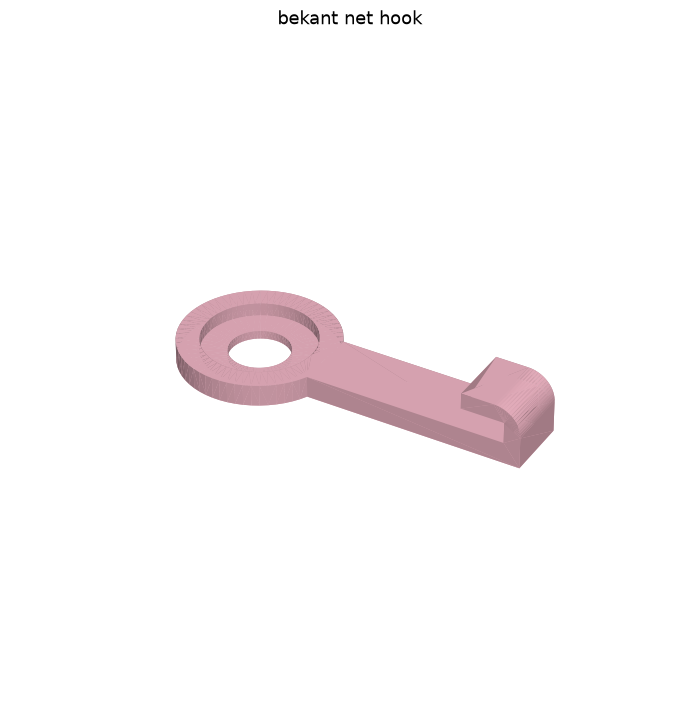
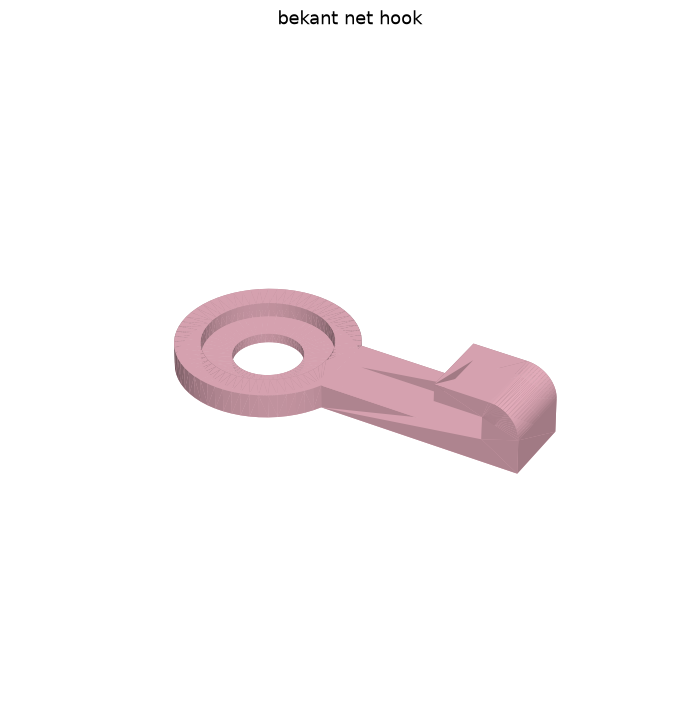
bekant-net-hook: 10 mm shorter, with a 6 mm wall at the hook's back
The loop rests 40 mm from the middle of the shaft. The hook's wall at the
arm's end is twice the wall over the loop.

diff --git a/parts/bekant-net-hook/part.py b/parts/bekant-net-hook/part.py
@@ -30,15 +30,18 @@ SLIDE = 0.2  # a side, round the shaft and round the ring: they slide in
 FLOOR = 1.55  # the hook under the holder's ring, the user's measurement of the room there
 THICK = 4  # the hook everywhere else
 RIM = 4  # the wall round the ring
-REACH = 50  # from the middle of the shaft to where the loop's cord rests
+REACH = 40  # from the middle of the shaft to where the loop's cord rests
 WIDTH = 12  # the arm and the hook, across
 SPACE = 4  # the room inside the hook, across, for the net's loop
-HOOK_WALL = 3  # the hook's wall, round that room
+HOOK_WALL = 3  # the hook's wall over that room
+BACK_WALL = 2 * HOOK_WALL  # the hook's wall behind that room, at the arm's end
 LIP = 6  # the hook's top, past the half circle toward the shaft, which keeps the loop under it
 
 POCKET = RING / 2 + SLIDE  # the radius of the pocket the ring sits in
-HOOK_X = REACH - SPACE / 2  # the middle of the hook's round back, along the arm
-END = REACH + HOOK_WALL  # the arm's end, which is the hook's back
+END = REACH + BACK_WALL  # the arm's end, which is the hook's back
+ROUND = SPACE / 2 + HOOK_WALL  # the radius the hook's back rounds over with, at the top
+ROUND_X = END - ROUND  # the middle of that round, along the arm
+LIP_X = REACH - SPACE / 2 - LIP  # where the lip starts, along the arm
 HOOK_Z = THICK + SPACE / 2  # and up: the room inside the hook starts on the arm's top
 VIEWS = (*plate.ANGLE, ("side.png", 0, -90, "From the side: the hook opens toward the shaft"))
 
@@ -48,16 +51,15 @@ def hook():
     arm = Box(END, WIDTH, THICK, align=FROM_X)
     pocket = Pos(0, 0, FLOOR) * Cylinder(POCKET, THICK, align=MIN)
     hole = Pos(0, 0, -CUT) * Cylinder(SHAFT / 2 + SLIDE, THICK + 2 * CUT, align=MIN)
-    # The hook is the far half of a cylinder that stands on the arm, its axis across, with a lip toward the shaft.
-    # Below the cylinder's middle its back is straight, in line with the arm's end.
+    # The hook stands on the arm: a block over the room, and a back that is straight below the room's middle and
+    # rounds over above it, as the far half of a cylinder with its axis across.
     # The room inside is a slot with a flat back, open toward the shaft.
-    outer = SPACE / 2 + HOOK_WALL
-    half = Pos(0, 0, -WIDTH / 2) * Box(outer, 2 * outer, WIDTH, align=(Align.MIN, Align.CENTER, Align.MIN))
-    curl = Pos(HOOK_X, 0, HOOK_Z) * Rot(90, 0, 0) * (Cylinder(outer, WIDTH) & half)
-    back = Pos(HOOK_X, 0, THICK) * Box(outer, WIDTH, HOOK_Z - THICK, align=FROM_X)
-    lip = Pos(HOOK_X - LIP, 0, HOOK_Z + SPACE / 2) * Box(LIP, WIDTH, HOOK_WALL, align=FROM_X)
-    room = Pos(HOOK_X - LIP - CUT, 0, THICK) * Box(REACH - HOOK_X + LIP + CUT, WIDTH + 2 * CUT, SPACE, align=FROM_X)
-    return eye + arm + (curl + back + lip - room) - pocket - hole
+    half = Pos(0, 0, -WIDTH / 2) * Box(ROUND, 2 * ROUND, WIDTH, align=(Align.MIN, Align.CENTER, Align.MIN))
+    curl = Pos(ROUND_X, 0, HOOK_Z) * Rot(90, 0, 0) * (Cylinder(ROUND, WIDTH) & half)
+    back = Pos(ROUND_X, 0, THICK) * Box(ROUND, WIDTH, HOOK_Z - THICK, align=FROM_X)
+    top = Pos(LIP_X, 0, THICK) * Box(ROUND_X - LIP_X, WIDTH, SPACE + HOOK_WALL, align=FROM_X)
+    room = Pos(LIP_X - CUT, 0, THICK) * Box(REACH - LIP_X + CUT, WIDTH + 2 * CUT, SPACE, align=FROM_X)
+    return eye + arm + (curl + back + top - room) - pocket - hole
 
 
 def main():

diff --git a/parts/bekant-net-hook/README.md b/parts/bekant-net-hook/README.md
@@ -2,7 +2,7 @@
 
 A hook that gives the IKEA Bekant's cable net slack. The net's loops are too tight on the net
 holders under the desk. The hook's eye goes on a holder's shaft, under the holder's ring, and the
-net's loop hooks into the other end, 50 mm further out.
+net's loop hooks into the other end, 40 mm further out.
 
 ![bekant-net-hook](pictures/angle.png)
 
@@ -21,11 +21,11 @@ The rest is 4 mm thick.
 The hook stands on the end of the arm and opens toward the shaft. Its back is straight, in line
 with the arm's end, and rounds over at the top. Its top runs
 6 mm further toward the shaft as a flat lip, which keeps the loop under it. The room inside is a
-slot 4 mm high with a flat back. The wall round it is 3 mm, and the hook is as wide as the arm,
-12 mm.
+slot 4 mm high with a flat back. The wall over it is 3 mm and the wall behind it, at the arm's end,
+6 mm. The hook is as wide as the arm, 12 mm.
 
 The hook's top half and its lip hang over the arm and print on supports, which the plate turns on
-for this piece (`enable_support`). The net pulls the hook along its layers, across the 3 mm wall where it
+for this piece (`enable_support`). The net pulls the hook along its layers, across the 6 mm wall where it
 stands on the arm.
 
 ## Putting it together
